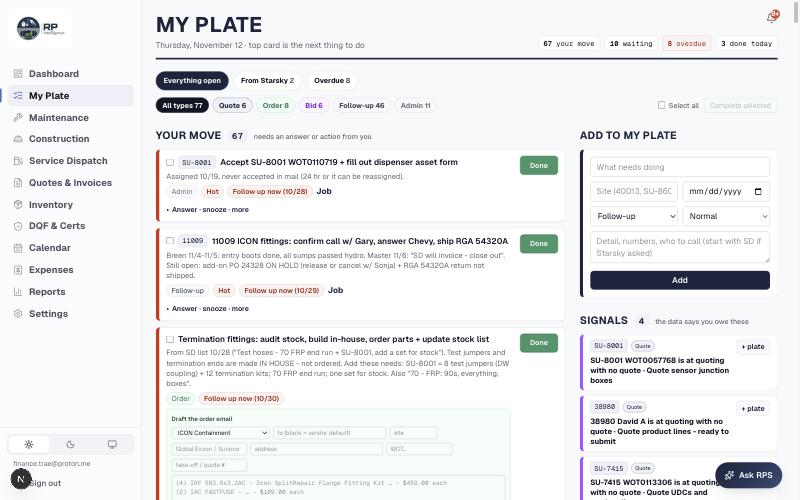
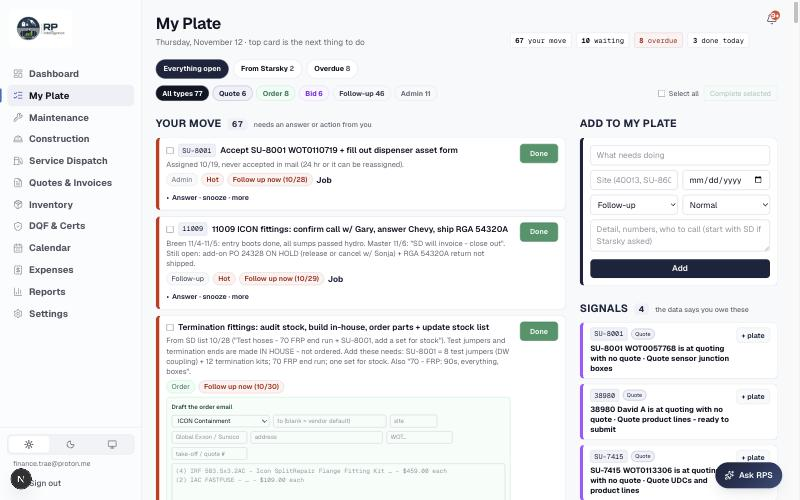
My Plate: use the shared page header style
Trae chose to match the other pages. Title and date line now use
rp-title / rp-subtitle; the counters, chips, lanes and cards are unchanged.

diff --git a/app/(app)/my/page.tsx b/app/(app)/my/page.tsx
@@ -92,10 +92,10 @@ export default async function MyPlatePage({ searchParams }: { searchParams: Prom
 
   return (
     <div className="p-4 sm:p-6 max-w-6xl mx-auto overflow-x-hidden">
-      <header className="flex flex-wrap items-end justify-between gap-3 border-b-[3px] border-blue-700 pb-3 mb-5">
+      <header className="flex flex-wrap items-end justify-between gap-3 mb-5">
         <div>
-          <h1 className="text-3xl sm:text-4xl font-bold uppercase tracking-wide text-blue-700 leading-none">My Plate</h1>
-          <p className="text-sm text-muted-foreground mt-1.5">{new Date().toLocaleDateString('en-US', { weekday: 'long', month: 'long', day: 'numeric', timeZone: 'America/New_York' })} · top card is the next thing to do</p>
+          <h1 className="rp-title">My Plate</h1>
+          <p className="rp-subtitle">{new Date().toLocaleDateString('en-US', { weekday: 'long', month: 'long', day: 'numeric', timeZone: 'America/New_York' })} · top card is the next thing to do</p>
         </div>
         <div className="flex flex-wrap gap-2 font-mono text-xs">
           <span className="px-2 py-1 rounded border border-border bg-card"><b className="tabular-nums">{openCount}</b> your move</span>

diff --git a/docs/restyle/README.md b/docs/restyle/README.md
@@ -20,6 +20,8 @@ Desktop shots are a 1440 x 900 window; phone shots are 375 x 812.
 
 ## My Plate
 
+The dark shots were taken before the header was switched to the shared style; the light shots show the current header.
+
 **Desktop**
 
 | Before | After (light) | After (dark) |
